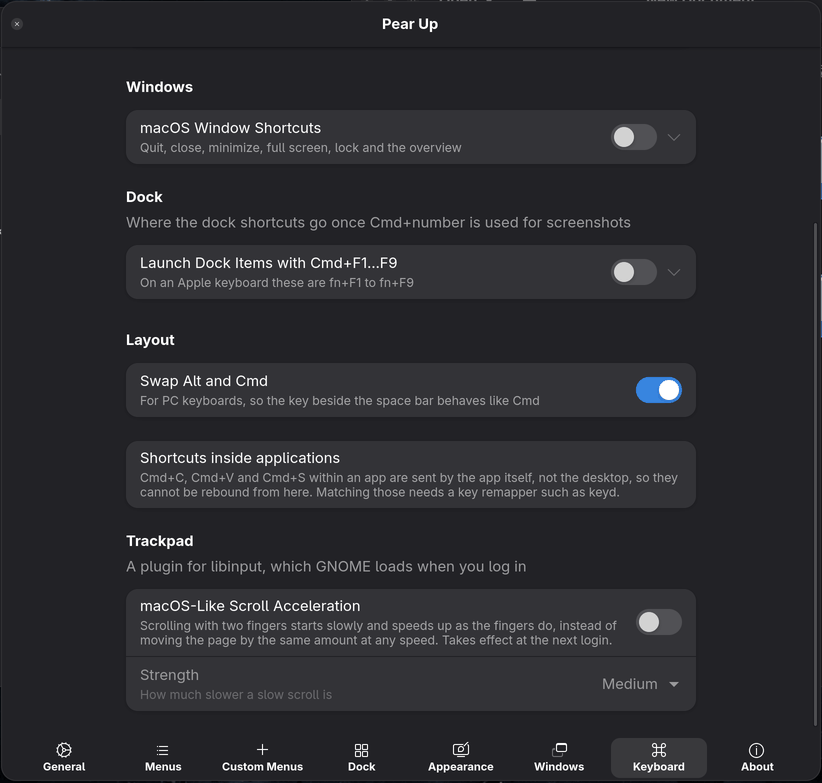
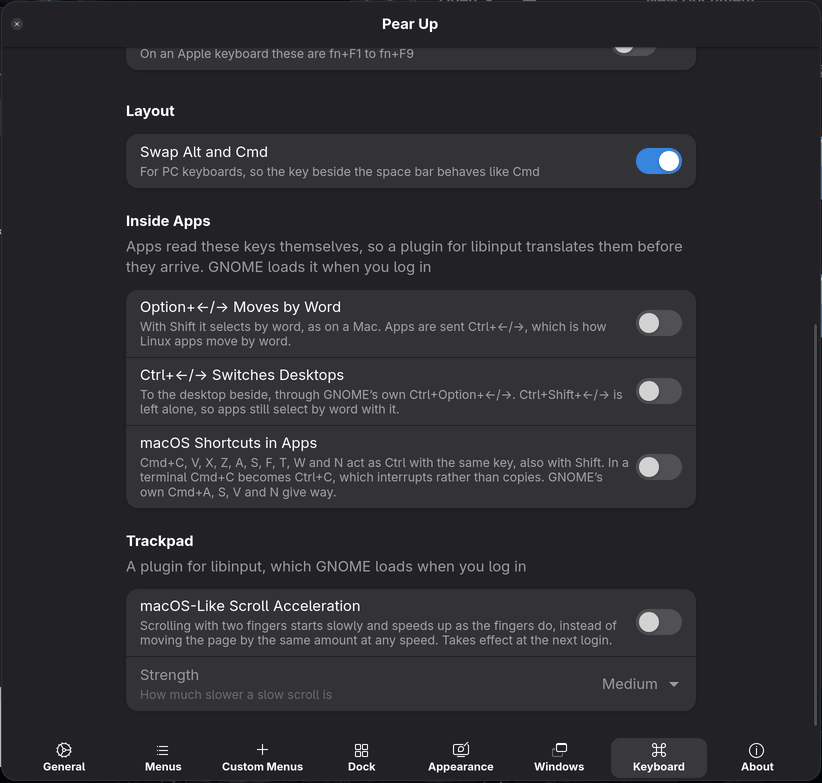
Document the macOS keys inside apps
README: a section with the three translations, what is left alone, how the
modifiers are lent, the swap, the limits (terminal Cmd+C, GNOME's Super
letters, left-hand keys only, key positions, no Option+Backspace), the
input-remapper warning, GNOME 50; requirements, uninstall and the test
section updated. The Keyboard/Trackpad screenshot is retaken in the
framy-like GNOME 50.5 preview, now showing the Inside Apps group.

CHANGELOG: an Unreleased entry for the plugin, the group and its tests.

diff --git a/README.md b/README.md
@@ -143,8 +143,35 @@ added next to GNOME's own rather than replacing it, so switching a set off leave
 untouched. Where Dash to Dock already grabs a chord — it takes `Cmd+number` and `Cmd+Q` — the switch
 stands that down and offers to move the dock shortcuts to `Cmd+F1…F9` instead.
 
-Shortcuts *inside* an application, like `Cmd+C`, are sent by the app rather than the desktop and
-cannot be rebound from here; matching those needs a key remapper such as `keyd`.
+**macOS keys inside apps.** An app reads its own keys, so `Cmd+C` in an app, or `Option+←` in a
+text field, cannot be rebound by any GNOME shortcut: Linux apps know those as `Ctrl+C` and `Ctrl+←`,
+and the keys have to be different before they arrive. Three switches in the Inside Apps group of the
+Keyboard page install a small [libinput plugin](libinput/10-pear-up-macos-keys.lua) that does that,
+on every keyboard with arrow keys:
+
+| Pressed | Apps get | Does |
+| --- | --- | --- |
+| `Option+←` / `Option+→` | `Ctrl+←` / `Ctrl+→` | A word left or right; with `Shift`, select by word |
+| `Ctrl+←` / `Ctrl+→` | `Ctrl+Option+←` / `→` | The desktop beside, through GNOME's own default shortcut |
+| `Cmd+C`, `V`, `X`, `Z`, `A`, `S`, `F`, `T`, `W`, `N` | `Ctrl+` the same key | Copy, paste, cut, undo …; with `Shift` too, so `Cmd+Shift+Z` redoes |
+
+Everything else reaches the apps as it did: `Option`, `Cmd` or `Ctrl` tapped alone, with any other key
+(`Cmd+Space`, `Cmd+Tab`, `Cmd+Q`, which Pear Up quits apps with), or together, such as `Ctrl+Shift+←`,
+which Linux apps still select by word with. A modifier goes to libinput the moment it is pressed, as
+always; only when one of the keys above follows is it lent to the translation, with `Ctrl` pressed
+before it is let go, so no app or GNOME ever sees a lone tap of it that you did not make. Held, a key
+repeats as its translation; let go in any order, nothing is left held. Which physical key is `Option`
+and which `Cmd` follows the Swap Alt and Cmd switch, written into the plugin when either changes.
+Things to know: in a terminal `Cmd+C` becomes `Ctrl+C`, which interrupts rather than copies, since
+nothing that low knows which app is in front; GNOME's own `Super+A`, `S`, `V` and `N` give way to the
+apps' shortcuts; only the left-hand `Option` and `Cmd` count; and the list is of key positions, so on
+a layout that swaps Z and Y it is the key printed Y that undoes. `Option+Backspace` is not translated:
+in a terminal `Alt+Backspace` already deletes a word and `Ctrl+Backspace` would erase one character.
+If an [input-remapper](https://github.com/sezanzeb/input-remapper) preset already maps these keys,
+the group says so, since with both the keys would be translated twice. Like the scroll acceleration
+it needs GNOME 50 and takes effect at the next login; switching all three off removes the one file it
+installed, `~/.config/libinput/plugins/10-pear-up-macos-keys.lua`. Before GNOME 50 a key remapper such
+as `keyd` or input-remapper can do the same.
 
 **Scrolling that speeds up like the Mac's.** On a touchpad, libinput scrolls by the same amount for
 every millimetre two fingers travel, however slowly they go, so a gentle nudge sends the page away.
@@ -165,7 +192,7 @@ keyboard shortcuts.
 
 Everything lives in one window, a page for each part: the panel and the desktop (General), which
 menus appear (Menus), the dock (Dock), type, accent, icons and cursor (Appearance), the windows
-(Windows), the shortcuts and the trackpad (Keyboard), and your custom menus. Open it by pressing
+(Windows), the shortcuts, the keys inside apps and the trackpad (Keyboard), and your custom menus. Open it by pressing
 <kbd>Super</kbd> and typing "pear", from the app grid, or through the Extensions app.
 
 These settings cannot appear in GNOME Settings beside Appearance, which is where they arguably
@@ -184,9 +211,9 @@ no extension can add one. Installing puts a **Pear Up Settings** application ent
 | --- | --- |
 | ![Dock settings](assets/screenshots/settings-dock.png) | ![Dock settings: frosted glass and running apps](assets/screenshots/settings-dock-glass.png) |
 
-| Keyboard | Keyboard, Trackpad |
+| Keyboard | Keyboard, Inside Apps and Trackpad |
 | --- | --- |
-| ![Keyboard settings](assets/screenshots/settings-keyboard.png) | ![Keyboard settings: scroll acceleration for the trackpad](assets/screenshots/settings-trackpad.png) |
+| ![Keyboard settings](assets/screenshots/settings-keyboard.png) | ![Keyboard settings: macOS keys inside apps, and scroll acceleration for the trackpad](assets/screenshots/settings-trackpad.png) |
 
 ## Requirements
 
@@ -194,8 +221,9 @@ no extension can add one. Installing puts a **Pear Up Settings** application ent
   [test suite](#testing) rather than assumed; 50 is also what it is used on daily.
 - Two things are for newer releases only, and their switches say so where they are not offered:
   the smooth automatic brightness needs GNOME 49 or later, where the shell sets the brightness
-  itself, and the scroll acceleration needs GNOME 50 or later with libinput 1.30 or later, since
-  earlier releases do not load libinput plugins from the user's directory.
+  itself, and the scroll acceleration and the macOS keys inside apps need GNOME 50 or later with
+  libinput 1.30 or later, since earlier releases do not load libinput plugins from the user's
+  directory.
 
 Nothing else is required. Applications are opened through their desktop files where possible, with
 fallbacks, so the menu entries work across distributions rather than assuming GNOME's defaults.
@@ -248,8 +276,9 @@ To remove it:
 bash uninstall.sh
 ```
 
-By default this only removes the extension's own files, the scroll acceleration plugin with them
-when the preferences installed it (scrolling is libinput's own again at the next login). Changes
+By default this only removes the extension's own files, the libinput plugins for scrolling and
+the keys with them when the preferences installed them (both are libinput's own again at the next
+login). Changes
 made from the Preferences
 window to settings owned by other parts of the desktop — the macOS shortcut sets appended
 to GNOME's keybindings, the Alt/Cmd swap in `xkb-options`, the Dash to Dock hot keys stood
@@ -380,11 +409,24 @@ once without. The touchpad exists only inside [umockdev](https://github.com/mart
 which fakes the device node for the one process it runs: `libinput replay` would make a uinput
 device instead, which every libinput on the machine — the desktop's included — would pick up.
 
+**And the macOS keys?** The same two ways. Their logic first, in the same sandbox, with keys pressed
+and let go the way a keyboard sends them: a modifier tapped alone or with any other key reaches
+libinput as it was; `Option+←`, `Option+Shift+→`, `Ctrl+←` and `Cmd+C` come out translated, with the
+new modifier down before the old one comes up and held while the key repeats; and three thousand runs
+of keys pressed, repeated and let go at random, with and without the swap, check that nothing is ever
+left held, pressed twice or let go unpressed, that a key that is not translated goes down with just
+the modifiers you hold, and that no lone tap of `Option`, `Cmd` or `Ctrl` is made up. Then the plugin
+in libinput itself, `libinput debug-events` reporting what a umockdev keyboard — framy's own — typed,
+with the plugin as the preferences write it with the swap on and off, and once without it, where the
+keys have to come out exactly as pressed. The same container compiles framy's keymap with xkb to check
+which raw key the swap makes Alt and which Super, and that GNOME binds `Ctrl+Alt+←/→` to the desktops
+beside by default.
+
 ```bash
 tests/run-libinput-tests.sh
 ```
 
-How it feels is another matter, and is for fingers on a real touchpad to say.
+How they feel is another matter, and is for fingers on a real touchpad and keyboard to say.
 
 **Do the helpers that reach into settings behave?** The undo logic in uninstall.sh does string
 surgery on printed GVariant lists, and the dock script forwards its opt-outs through a quoted heredoc

diff --git a/CHANGELOG.md b/CHANGELOG.md
@@ -291,6 +291,67 @@ it back when they are switched off.
   and one finger exactly as without it. The preferences smoke test installs,
   re-strengthens and removes the file in a config directory of its own.
 
+- **macOS keys inside apps, in an Inside Apps group on the Keyboard page.**
+  On a Mac, Option+←/→ moves the cursor a word (with Shift, selects by
+  word), Ctrl+←/→ goes to the desktop beside, and Cmd+C copies. Linux apps
+  know those as Ctrl+←/→ and Ctrl+C, and an app reads its own keys, so no
+  GNOME shortcut can change them: they have to be translated before they
+  arrive. That is a second libinput plugin, `libinput/10-pear-up-macos-keys.lua`,
+  installed like the scroll one into `~/.config/libinput/plugins` and loaded
+  by GNOME 50 at login, with three switches: Option+←/→ Moves by Word
+  (Ctrl+←/→), Ctrl+←/→ Switches Desktops (Ctrl+Option+←/→, GNOME's own
+  default shortcut for it, so nothing has to be bound; the row says so if it
+  has been unbound) and macOS Shortcuts in Apps (Cmd+C, V, X, Z, A, S, F, T,
+  W and N as Ctrl with the same key, Shift too; not Q, which is Pear Up's
+  Quit). Option, Cmd and Ctrl tapped alone or with any other key, and
+  combinations such as Ctrl+Shift+← that Linux apps select by word with,
+  reach apps as before. A modifier still reaches libinput the moment it is
+  pressed; when a key to translate follows, it is lent to the translation,
+  with Ctrl pressed before it is let go so that nothing sees a lone tap of
+  Alt or Super, and it stays lent while it is held, so word after word needs
+  no tap in between. Held keys repeat as their translation, keys let go in
+  any order leave nothing held, and any other key gives back what was lent
+  first. What libinput holds is worked out afresh after every key from what
+  the keyboard holds, and only the difference is sent. The plugin sees raw
+  keys, before xkb's Alt/Cmd swap, so which key is Option and which Cmd is
+  written into the installed copy from the Swap Alt and Cmd switch and
+  written again when the swap changes; the switches and the Cmd key list are
+  lines in it too, and a list edited by hand is kept. An error while a key is
+  handled puts the modifiers back to what the keyboard holds and leaves the
+  keys alone until the next login. In a terminal Cmd+C becomes Ctrl+C, which
+  interrupts, and GNOME's own Super+A, S, V and N give way; both are said
+  on the row. Option+Backspace is left as it is, since in a terminal
+  Alt+Backspace already deletes a word and Ctrl+Backspace would erase one
+  character. If an input-remapper preset already maps a modifier with ←/→,
+  or Alt or Super with a key on the list, a row says so and that the keys
+  would be translated twice; the preset is only read. The group replaces the
+  note that said shortcuts inside applications could not be changed from
+  here; before GNOME 50 it is greyed and says that a key remapper such as
+  keyd does it. install.sh updates an installed copy, keeping its lines, and
+  uninstall.sh removes it; neither touches a file of that name that is not
+  Pear Up's.
+
+  `tests/run-libinput-tests.sh` checks it as it does the scroll plugin. Its
+  logic, in libinput's sandbox, against keys pressed and let go as a keyboard
+  sends them, with the swap on and off: modifiers alone and with other keys
+  untouched, each translation key by key, repeats, release orders, the
+  switches and the key list as written, and an error mid-translation; then
+  3000 runs of random presses, repeats and releases, after each of which
+  nothing may be held, nothing pressed twice or let go unpressed, no
+  untranslated key pressed with other modifiers than are held, and no lone
+  Alt, Super or Ctrl tap made up. Then the plugin in libinput 1.31 itself,
+  with `libinput debug-events` reporting fifteen sequences typed on a
+  umockdev copy of framy's keyboard, with the swap on, off, and with no
+  plugin, where every key has to come out as pressed; xkb's compiled keymap
+  confirms which raw key the swap makes Alt and which Super, and GNOME 50's
+  schema that Ctrl+Alt+←/→ is bound to the desktops beside. The preferences
+  smoke test switches each row on and off in a config directory of its own
+  and compares the file byte for byte, follows the swap from the row and from
+  outside, keeps a hand-edited key list, leaves other plugins, an older copy,
+  someone else's file and an unwritable directory as the scroll plugin's test
+  does, and reads a copy of framy's input-remapper preset, a 1.x one and a
+  harmless one, warning for the first two only.
+
 - **System Menu text size**, 10–16px, default 13 (GNOME's own). The pear menu
   only; File, Edit and the rest of the bar have their own size.
 
